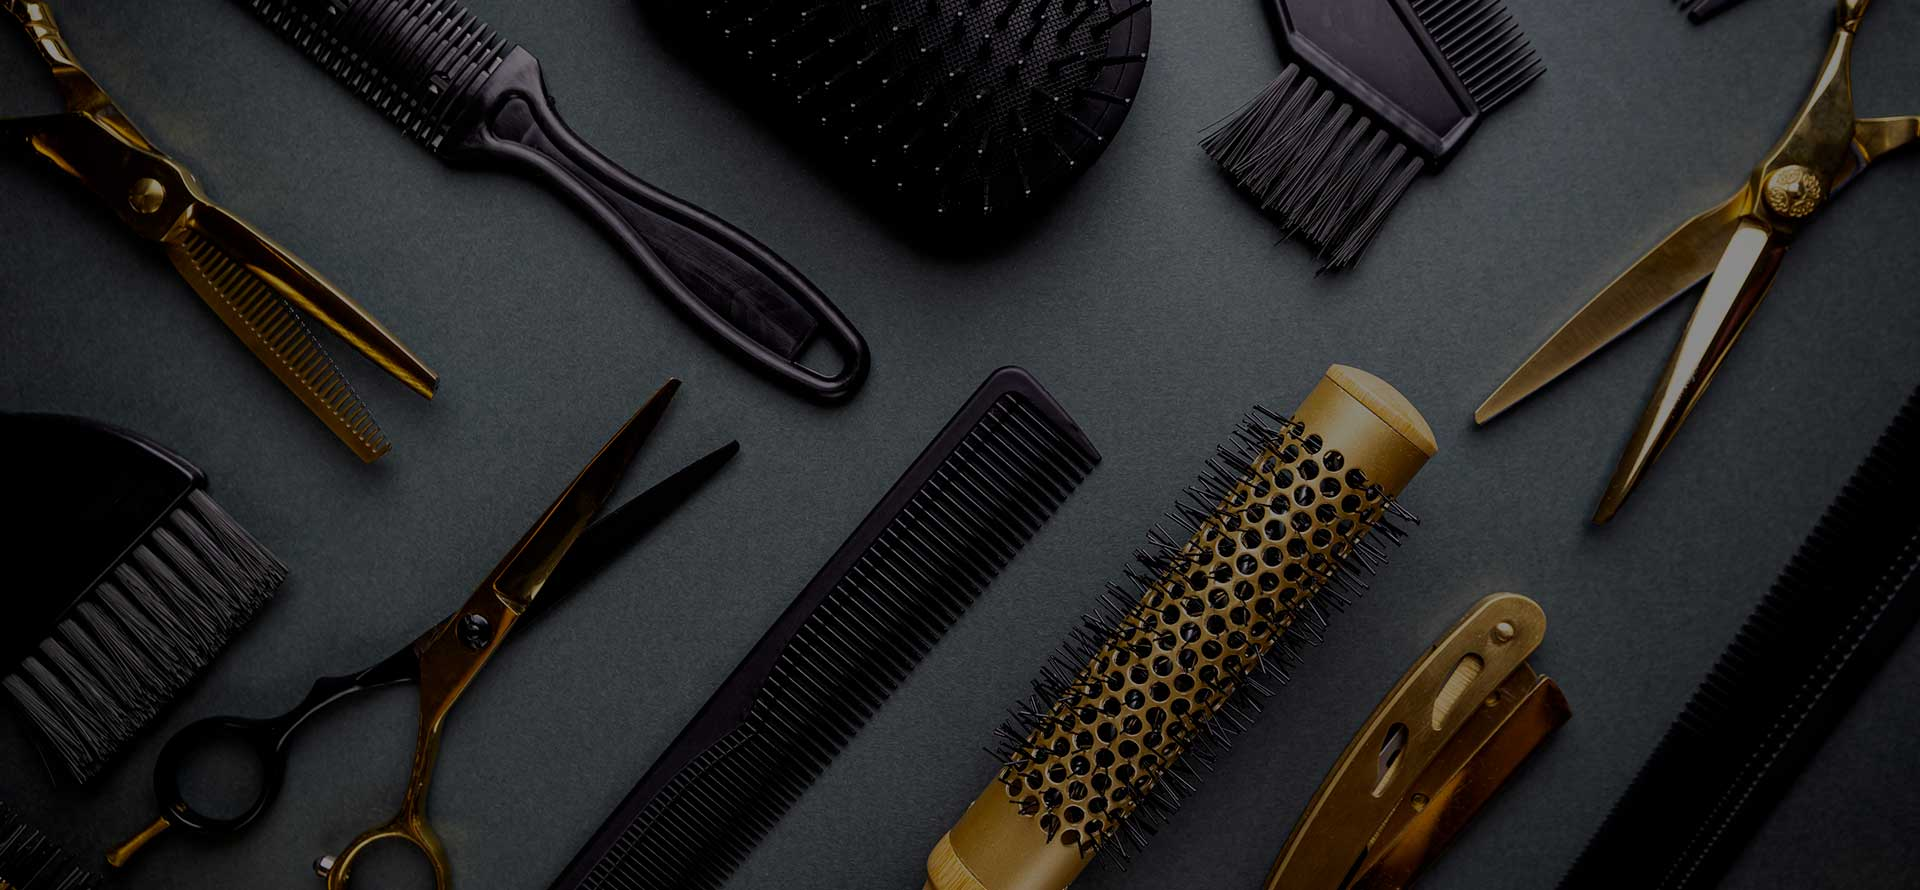
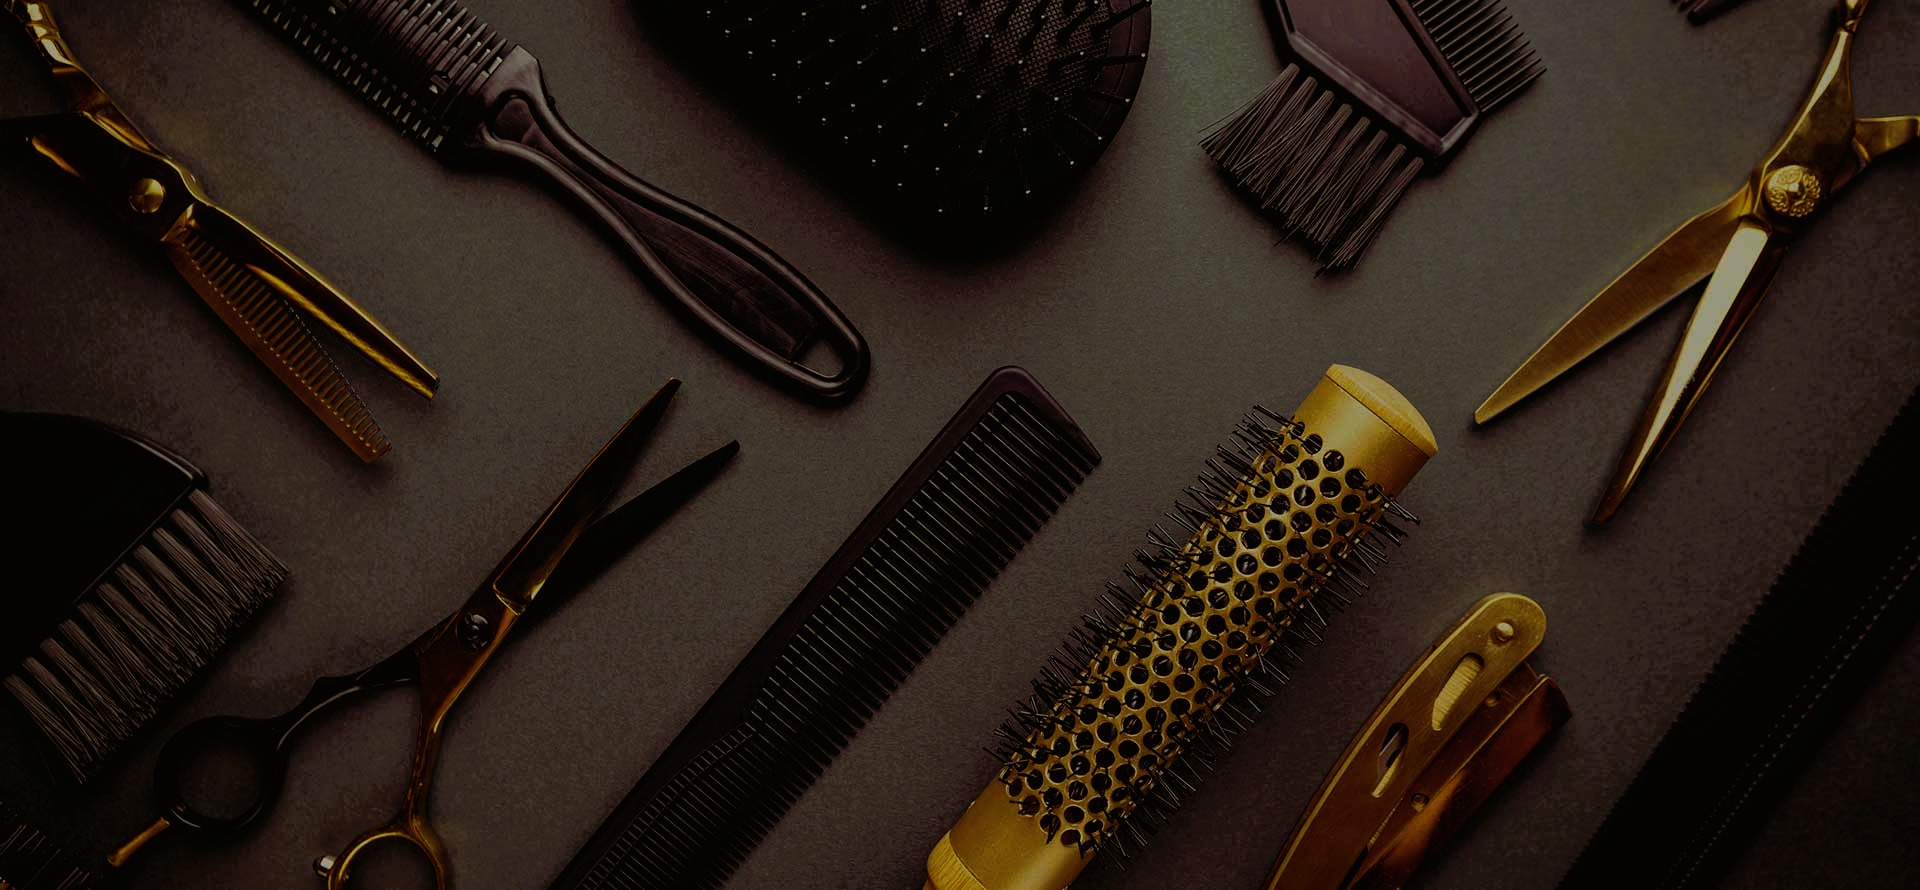
ajustes-servicos

diff --git a/src/components/Servicos/servicos.tsx b/src/components/Servicos/servicos.tsx
@@ -1,88 +1,99 @@
 'use client';
 
-import React from 'react';
+import React, { useState } from 'react';  
 import { motion } from 'framer-motion';
 import styles from './servicos.module.scss';
 import { RiScissors2Fill } from 'react-icons/ri';
 
 export default function Servicos() {
+  const [activeCards, setActiveCards] = useState<number[]>([]);
+
+  const toggleCard = (idx: number) => {
+    setActiveCards(prev =>
+      prev.includes(idx)
+        ? prev.filter(i => i !== idx) // se já estava ativo, remove
+        : [...prev, idx]              // se não, adiciona
+    );
+  };
+
   const servicos = [
     {
       icon: <RiScissors2Fill />,
       title: 'SOBRANCELHA',
       text: 'Design de sobrancelha, com limpeza e modelagem.',
       delay: 0,
-      image: '/images/OIF.webp',
+      image: '/images/OIF.PNG',
     },
     {
       icon: <RiScissors2Fill />,
       title: 'CORTE E BARBA',
       text: 'Corte de cabelo e barba com lavagem.',
       delay: 0.2,
-      image: '/images/OIF.webp',
+      image: '/images/OIF.PNG',
     },
     {
       icon: <RiScissors2Fill />,
       title: 'MAQUINA E BARBA',
       text: 'Corte de cabelo com máquina e barba, com lavagem.',
       delay: 0.3,
-      image: '/images/OIF.webp',
+      image: '/images/OIF.PNG',
     },
     {
       icon: <RiScissors2Fill />,
       title: 'CORTE MAQUINA',
       text: 'Corte de cabelo na maquina.',
       delay: 0.4,
-      image: '/images/OIF.webp',
+      image: '/images/OIF.PNG',
     },
     {
       icon: <RiScissors2Fill />,
       title: 'BARBA',
       text: 'modelagem da barba, com lavagem e secagem.',
       delay: 0.5,
-      image: '/images/OIF.webp',
+      image: '/images/OIF.PNG',
     },
     {
       icon: <RiScissors2Fill />,
       title: 'CORTE',
       text: 'É feito uma avaliação do cabelo e é escolhido o melhor corte.',
       delay: 0.6,
-      image: '/images/OIF.webp',
+      image: '/images/OIF.PNG',
     },
     {
       icon: <RiScissors2Fill />,
       title: 'BARBA E SOBRANCELHA',
       text: 'Modelagem da barba e sobrancelha, com lavagem e secagem.',
       delay: 0.7,
-      image: '/images/OIF.webp',
+      image: '/images/OIF.PNG',
     },
     {
       icon: <RiScissors2Fill />,
       title: 'CORTE MAQUINA + BARBA',
       text: 'Corte de cabelo na máquina e modelagem da barba, com lavagem.',
       delay: 0.8,
-      image: '/images/OIF.webp',
+      image: '/images/OIF.PNG',
     },
     {
       icon: <RiScissors2Fill />,
       title: 'CORTE E SOBRANCELHA',
       text: 'Corte de cabelo e sobrancelha, com lavagem, secagem e modelagem.',
       delay: 0.9,
-      image: '/images/OIF.webp',
+      image: '/images/OIF.PNG',
     },
   ];
 
   return (
     <div className={styles.SobreNos}>
       <div className={styles.container}>
-        {servicos.map(({ icon, title, text, delay, image }) => (
+        {servicos.map(({ icon, title, text, delay, image }, idx) => (
           <motion.div
             key={title}
-            className={styles.flipCard}
+            className={`${styles.flipCard} ${activeCards.includes(idx) ? styles.active : ''}`}
             initial={{ y: 60, opacity: 0 }}
             whileInView={{ y: 0, opacity: 1 }}
             viewport={{ once: true, amount: 0.3 }}
             transition={{ duration: 1.2, ease: 'easeOut', delay }}
+            onClick={() => toggleCard(idx)}
           >
             <div className={styles.flipInner}>
               {/* Frente do card */}

diff --git a/src/app/Servicos/servicos.module.css b/src/app/Servicos/servicos.module.css
@@ -1,9 +1,11 @@
 .servicos-container {
+  min-height: 100vh;
   width: 100%;
   overflow-x: hidden;
   background-image: url('../../images/utilitarios.jpg');
   background-repeat: no-repeat;
   background-size: cover;
+  background-position: center;   /* Centraliza a imagem */
   position: relative;
   display: flex;
   flex-direction: column;
@@ -13,10 +15,10 @@
 
 /* Seção com imagem de fundo */
 .servicos-header {
-  width: 100vw;                /* Ocupa toda a viewport */
-  height: 40vh;                /* Ajuste a altura conforme desejar */
-  background-image: url('../../images/foto-shelby.webp');
-  background-position: left center; /* Foco na esquerda */
+  width: 100vw;
+  height: 40vh;
+  background-image: url('../../images/foto-shelby.PNG');
+  background-position: center;
   background-repeat: no-repeat;
   background-size: cover;
   position: relative;
@@ -25,22 +27,46 @@
   justify-content: center;
   align-items: flex-start;
   padding-left: 5rem;
-}
-
-/* Filtro escuro por cima da imagem */
-.servicos-header::before {
-  content: "";
-  position: absolute;
-  inset: 0;
-  background-color: rgba(0, 0, 0, 0.5);
   z-index: 1;
 }
 
+.servicos-header::after {
+  content: "";
+  position: absolute;
+  bottom: 0; 
+  left: 0;
+  width: 100%;
+  height: 100px; /* altura da transição */
+  background: linear-gradient(to bottom, rgba(0,0,0,0) 0%, #1b06067c 100%);
+  /* use a cor de fundo ou base da próxima seção */
+  z-index: 2;
+}
+
+.servicos-container::after {
+  content: "";
+  position: absolute;
+  bottom: 0; 
+  left: 0;
+  width: 100%;
+  height: 130px; /* altura da transição */
+  background: linear-gradient(to , rgba(0,0,0,0) 0%, #1b0606 100%);
+  /* use a cor de fundo ou base da próxima seção */
+  z-index: 2;
+}
+
+/* Removendo overlay que escurece a imagem */
+.servicos-header::before {
+  content: none; /* remove a camada escura */
+}
+
+/* Caso queira manter o texto legível, adicione sombra ao texto em vez de overlay */
 .servicos-title {
   font-size: 74px;
   font-weight: bold;
   margin-bottom: 0.5rem;
-  z-index: 2;
   color: white;
   text-align: center;
+  position: relative;
+  z-index: 2;
+  text-shadow: 2px 2px 5px rgba(0,0,0,0.6); /* sombra suave para contraste */
 }

diff --git a/src/components/Servicos/servicos.module.scss b/src/components/Servicos/servicos.module.scss
@@ -20,7 +20,7 @@
   position: relative;
 
   &:hover .flipInner {
-    transform: rotateX(180deg); // <- Efeito de flip
+    transform: rotateY(180deg); // <- Efeito de flip
   }
 
   &:hover .image {
@@ -48,13 +48,13 @@
 
 .flipFront,
 .flipBack {
-  background-image: url('../../images/OIF.webp');
+  background-image: url('../../images/OIF.PNG');
   background-size: cover;
   background-position: center;
   position: absolute;
   width: 100%;
   height: 100%;
-  border-radius: 2rem;
+  border-radius: 20px;
   backface-visibility: hidden;
   overflow: hidden;
   box-shadow: 0 10px 25px rgba(0, 0, 0, 0.3);
@@ -77,9 +77,10 @@
   margin-bottom: 1rem;
 }
 
+
 .flipBack {
   background-color: #111;
-  transform: rotateX(180deg); // <- Inversão vertical
+  transform: rotateY(180deg);
   z-index: 1;
 
   .icon,
